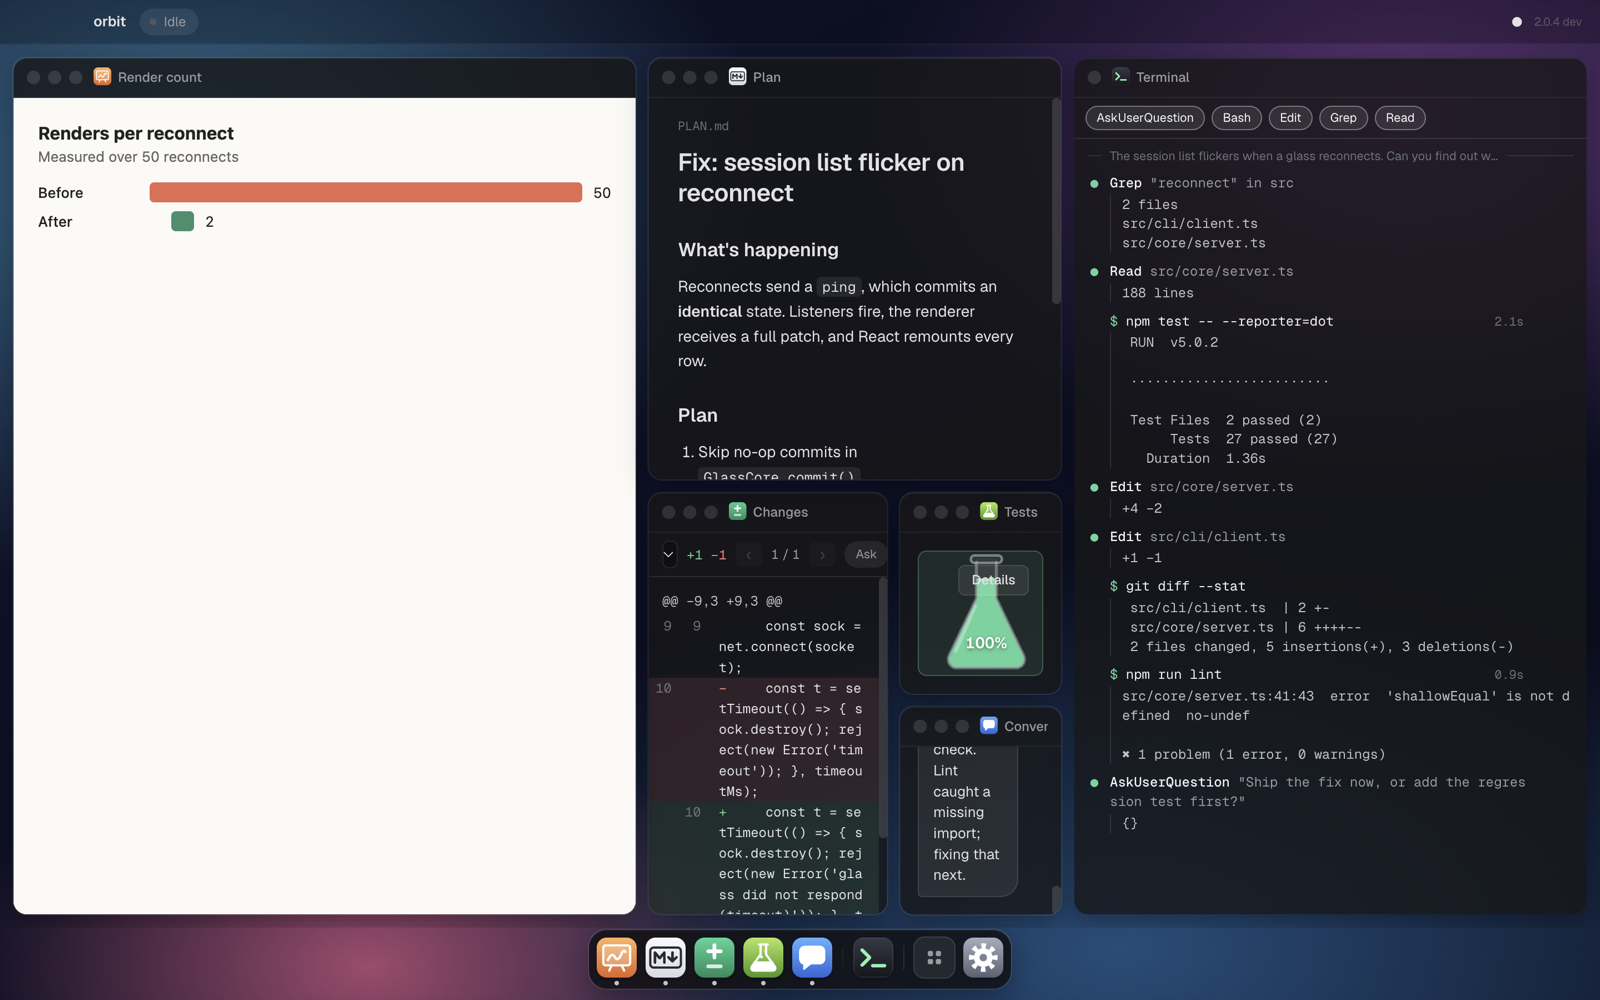
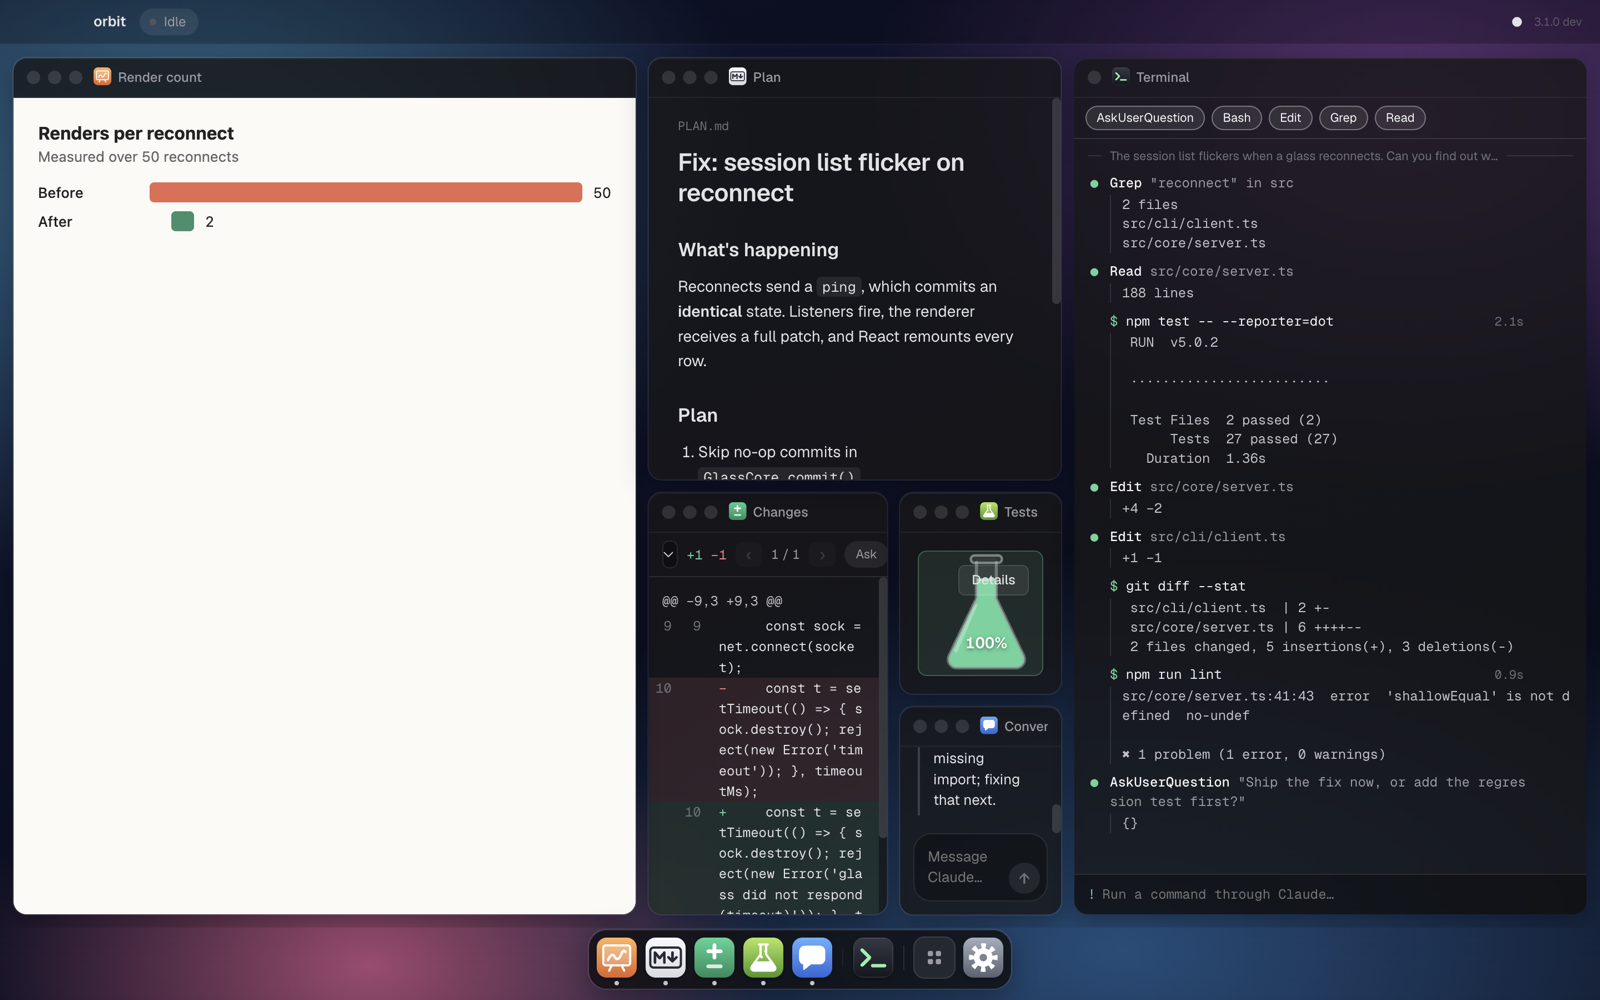
Describe it as a visual workspace for Claude Code; README media regenerated

Changed region(s): [[0.5625, 0.744, 0.6562, 0.899], [0.7188, 0.868, 0.75, 0.899], [0.6562, 0.806, 0.6875, 0.837]]

diff --git a/README.md b/README.md
@@ -1,13 +1,16 @@
 # Claude Glass
 
-Claude's monitor. Claude Glass is a desktop window bound to a Claude Code session that works like
-a screen share from Claude to you. As Claude works, the window fills itself: the conversation,
-every tool call it runs, diffs of every file it edits, its plans, the images it looks at, and the
-web pages it reads. When Claude wants to *show* you something, like a chart, a mockup, a
-comparison or a write-up, it puts it on the glass with one command.
+A visual workspace for Claude Code. Claude lays out windows to show you what it's doing as it
+works: diffs, plans, terminal, conversation, and anything it wants to draw. Extend it with apps.
+
+Each glass is bound to a Claude Code session. As Claude works, its windows fill themselves: the
+conversation, every tool call it runs, diffs of every file it edits, its plans, the images it
+looks at and the web pages it reads. Claude arranges them, bringing forward what deserves your
+attention, and when it wants to *show* you something, like a chart, a mockup, a comparison or a
+write-up, it puts it on the glass with one command.
 
 It's built for working with Claude like a coworker, especially by voice, when you can't easily see
-what Claude sees, and it talks back: message Claude from Conversation, run commands through it
+what Claude sees. You can talk back too: message Claude from Conversation, run commands through it
 from Terminal, approve its permission prompts, answer its questions, point at a change and ask,
 or stop it mid-turn.
 
